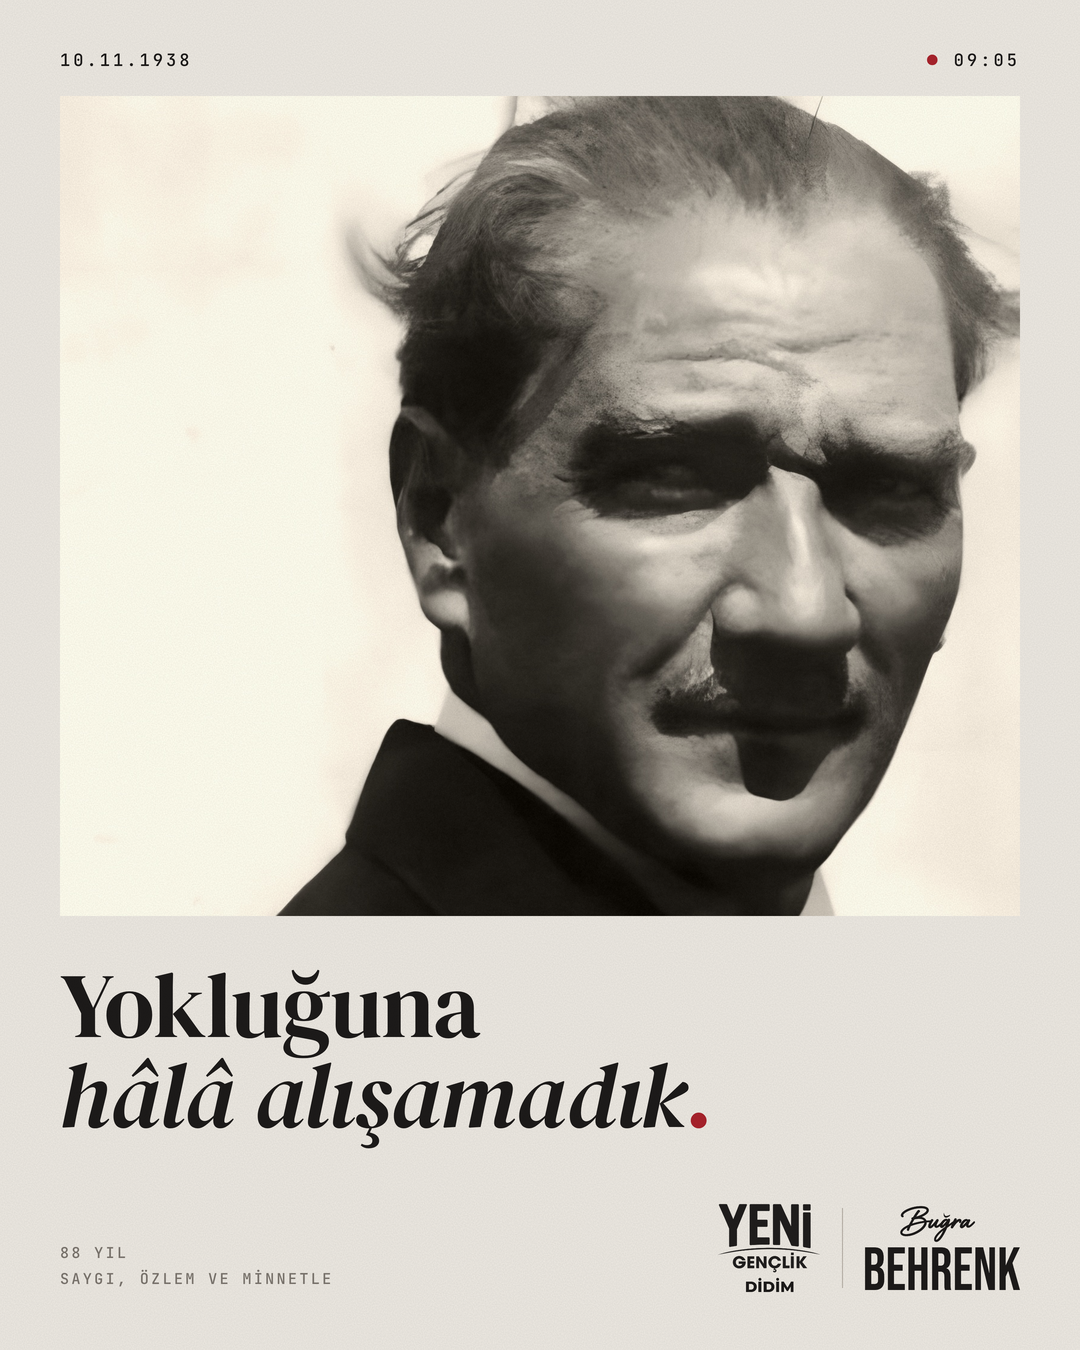
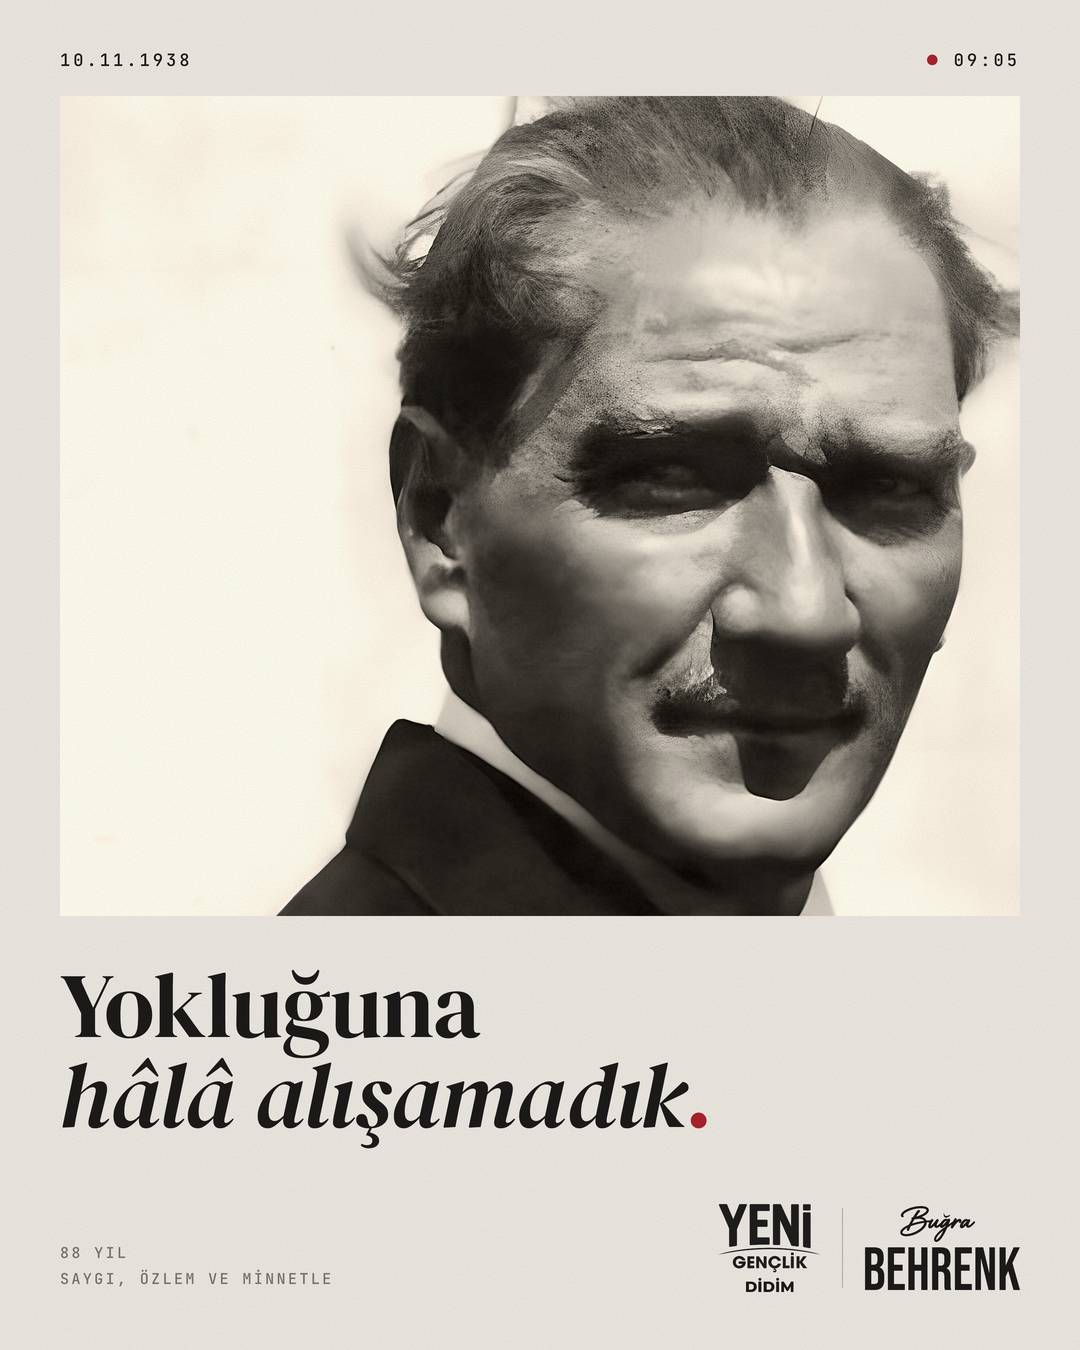
10 Kasım modern: Atatürk fotoğrafı netleştirildi
Claude-Session: https://claude.ai/code/session_01SatttGbgBLoCnk9KGLypWv

diff --git a/tasarim/kisisel/10-kasim/bugra-modern/modern.html b/tasarim/kisisel/10-kasim/bugra-modern/modern.html
@@ -19,7 +19,7 @@ html,body{margin:0;width:1080px;height:1350px;overflow:hidden;background:var(--k
 .gren{position:absolute;inset:0;opacity:.22;mix-blend-mode:multiply;pointer-events:none}
 </style><body>
 <div class="ust"><span>10.11.1938</span><span><i>●</i> 09:05</span></div>
-<div class="foto"><img src="ataturk2-ton.jpg"></div>
+<div class="foto"><img src="ataturk2-net.jpg"></div>
 <div class="soz">Yokluğuna<br><em>hâlâ alışamadık</em><b>.</b></div>
 <div class="alt"><div class="not">88 YIL<br>SAYGI, ÖZLEM VE MİNNETLE</div>
 <div class="imza"><img class="lg" src="logo-koyu.png"><span class="ay"></span><img class="is" src="imza-koyu-yeni.png"></div></div>
